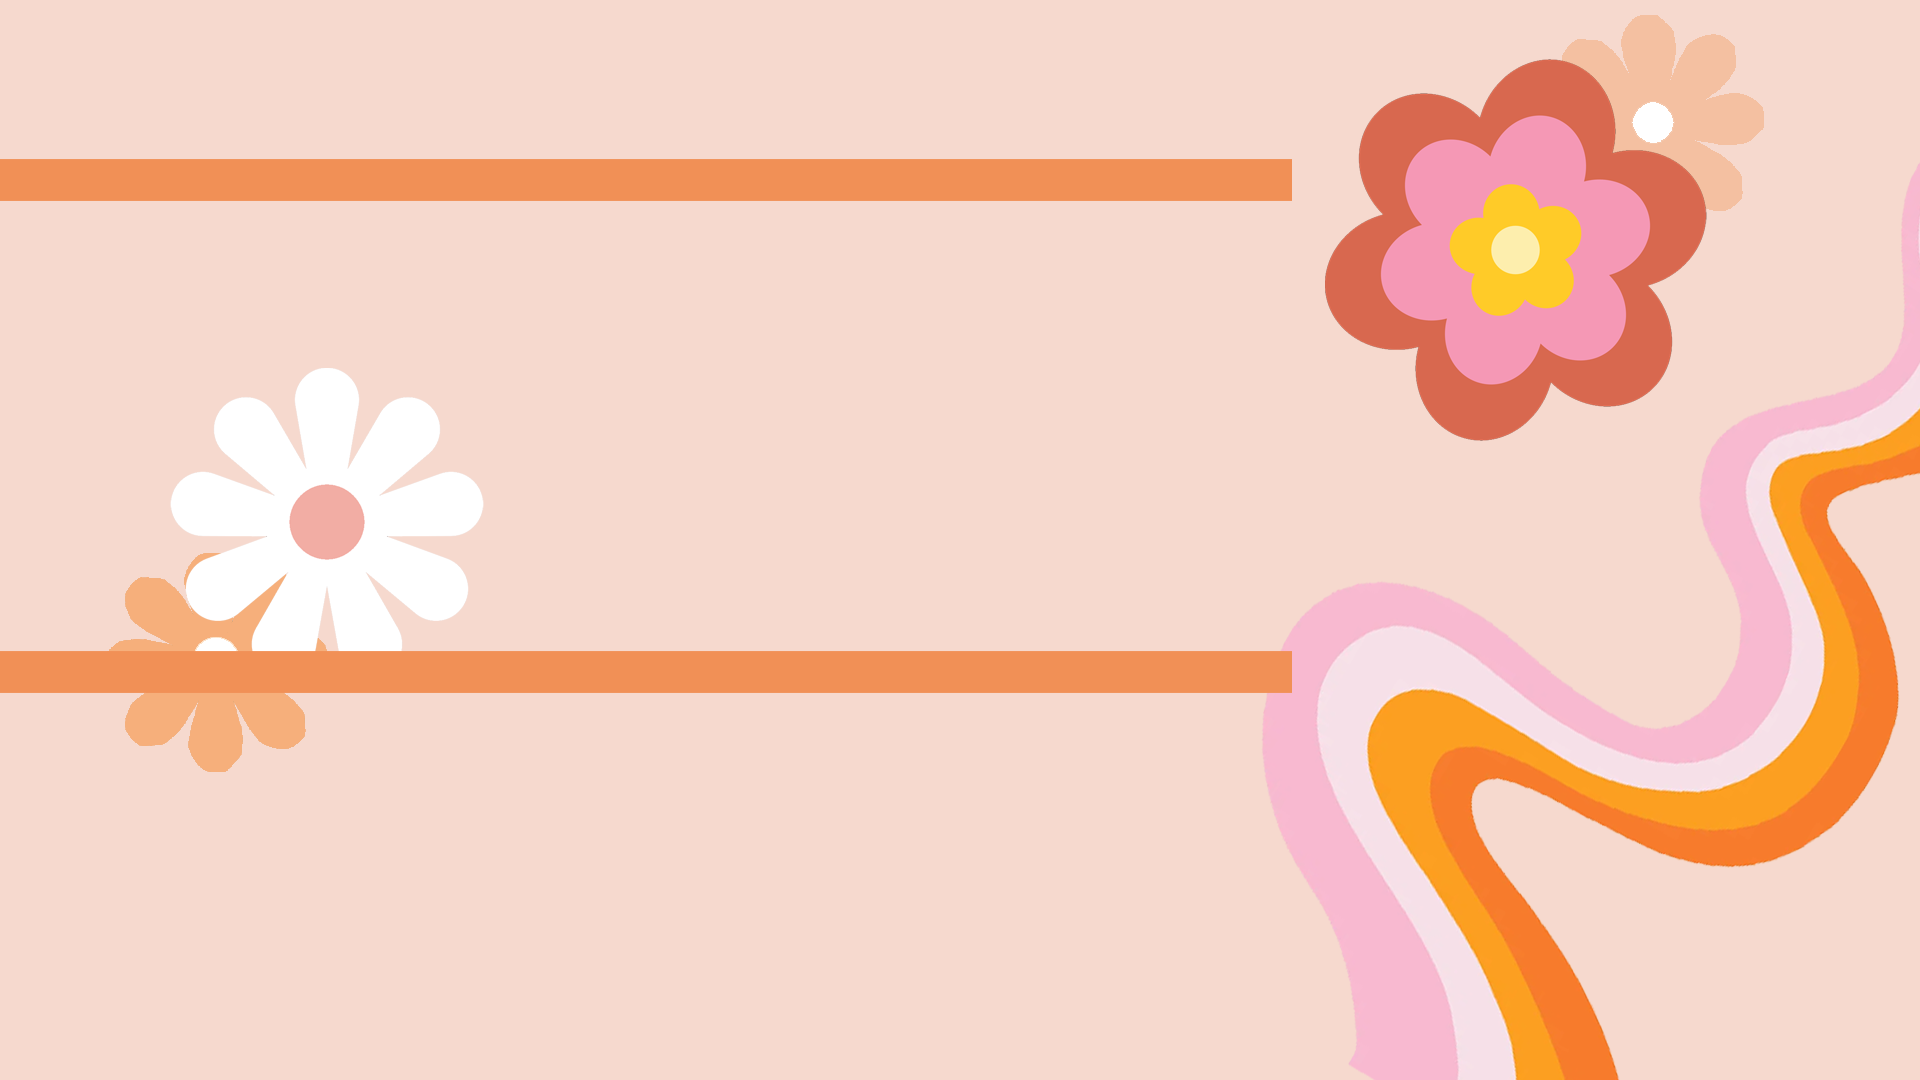
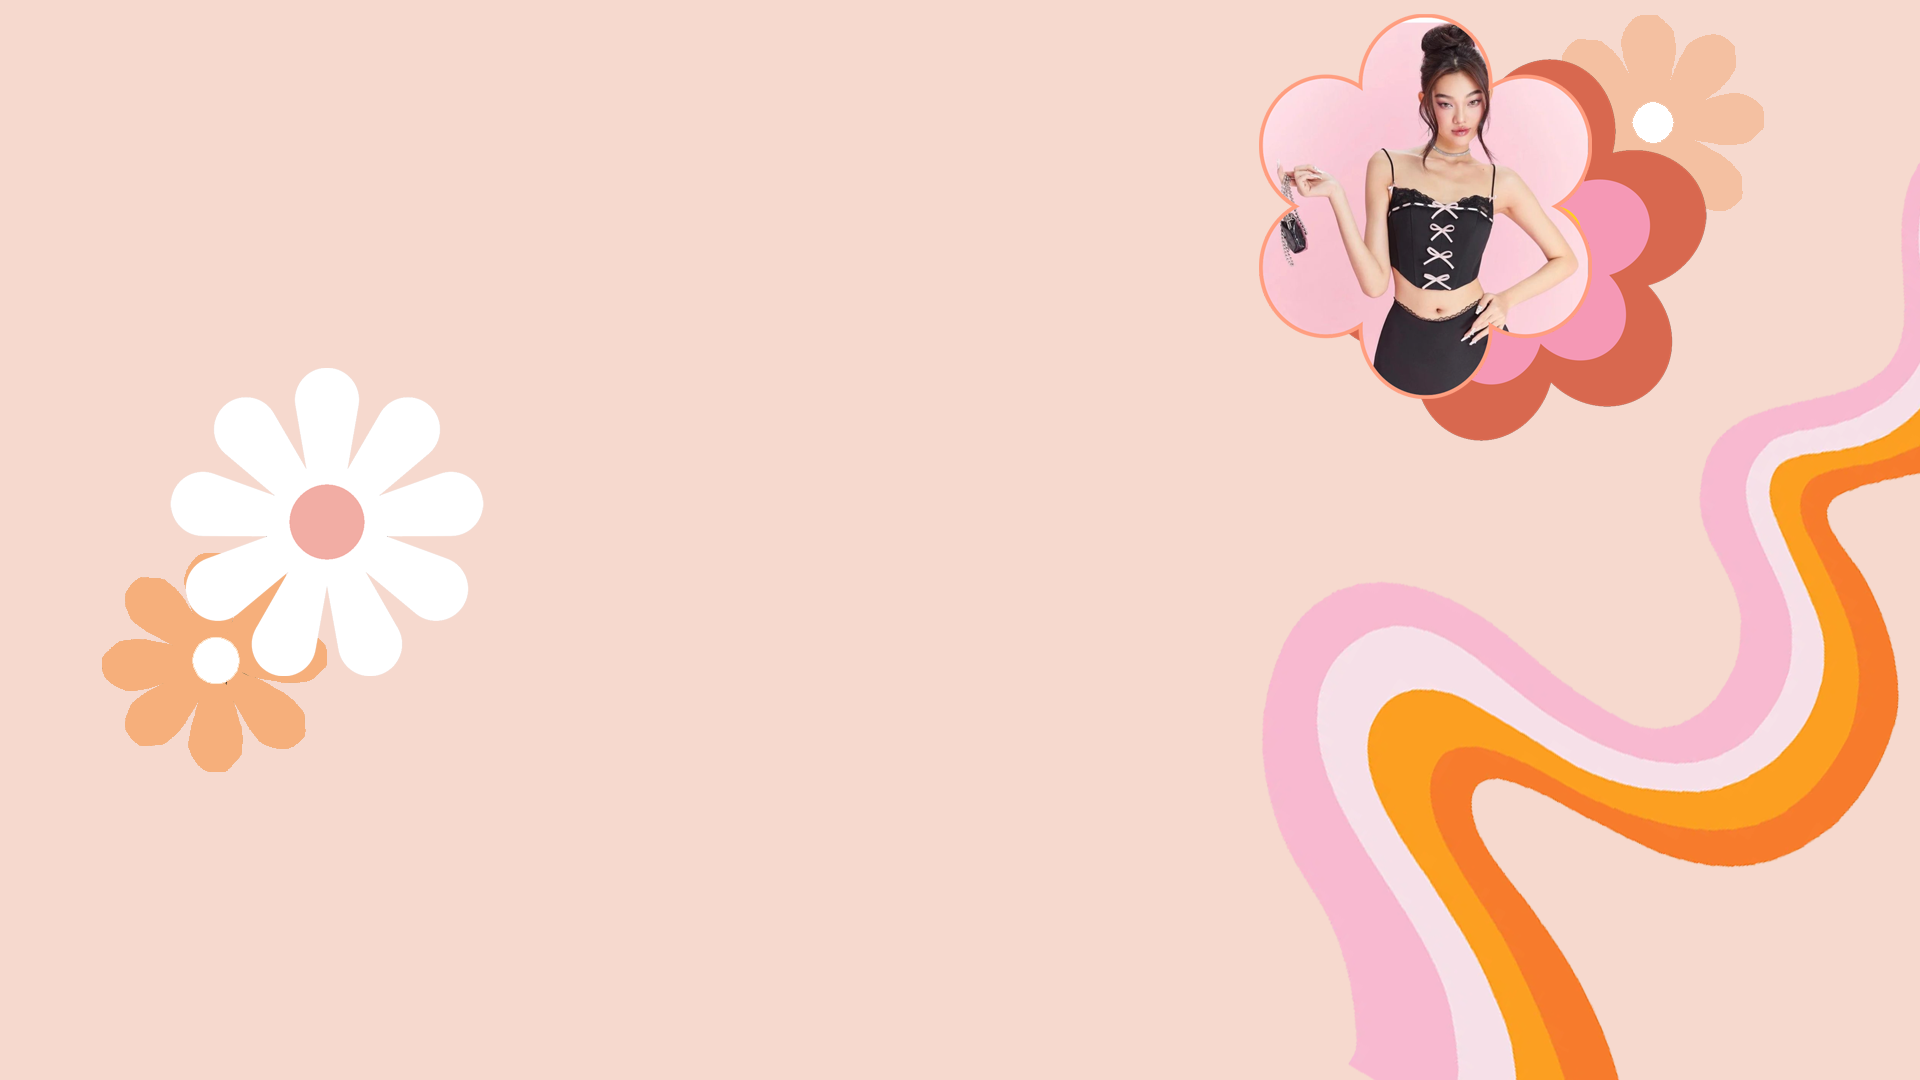
Updated a file
Fixed responsiveness

Changed region(s): [[0.0, 0.0, 0.8438, 0.3667], [0.0, 0.5806, 0.6875, 0.6417]]

diff --git a/src/Components/FrontPoster/Poster.css b/src/Components/FrontPoster/Poster.css
@@ -1,7 +1,8 @@
 .poster {
   margin-top: 1px;
-  height: 850px;
-  background-image: url(/src/Components/Assets/frontpage\ bg.png);
+  background-image: url(/src/Components/Assets/frontpage\ bg1.png);
+  background-size: 100%;
+  background-repeat: no-repeat;
   display: flex;
 }
 .poster-left {
@@ -45,7 +46,7 @@
 }
 .poster-right img {
   margin-top: 120px;
-  margin-right: 250px;
+  padding-right: 200px;
   height: auto;
   width: 550px;
   flex: 1;
@@ -54,10 +55,6 @@
   justify-content: center;
 }
 @media (max-width: 1700px) {
-  .poster {
-    height: auto;
-    width: 1700px;
-  }
   .poster p {
     font-size: 50px;
     font-weight: 900;
@@ -65,13 +62,10 @@
   .poster-right img {
     height: auto;
     width: 500px;
+    padding-right: 0px;
   }
 }
 @media (max-width: 1628px) {
-  .poster {
-    height: auto;
-    width: 1610px;
-  }
   .poster p {
     font-size: 50px;
     font-weight: 900;
@@ -82,10 +76,6 @@
   }
 }
 @media (max-width: 1500px) {
-  .poster {
-    height: auto;
-    width: 1490px;
-  }
   .poster-right img {
     height: auto;
     width: 390px;
@@ -93,10 +83,6 @@
   }
 }
 @media (max-width: 1400px) {
-  .poster {
-    height: auto;
-    width: 1385px;
-  }
   .poster-right img {
     height: auto;
     width: 350px;
@@ -104,10 +90,6 @@
   }
 }
 @media (max-width: 1350px) {
-  .poster {
-    height: auto;
-    width: 1350px;
-  }
   .poster-right img {
     height: auto;
     width: 300px;
@@ -115,10 +97,6 @@
   }
 }
 @media (max-width: 1280px) {
-  .poster {
-    height: auto;
-    width: 1266px;
-  }
   .poster-left {
     padding-left: 0px;
   }
@@ -139,20 +117,14 @@
   }
   .poster-right img {
     width: 250px;
-    margin-right: 250px;
   }
 }
 @media (max-width: 1108px) {
-  .poster {
-    height: auto;
-    width: 1108px;
-  }
   .poster-left {
     padding-left: 0px;
   }
   .poster-left p {
     font-size: 40px;
-    margin-left: 100px;
   }
   .astonishing img {
     width: 500px;
@@ -167,23 +139,17 @@
   }
   .poster-right img {
     width: 250px;
-    margin-right: 550px;
   }
 }
 @media (max-width: 1024px) {
-  .poster {
-    height: auto;
-    width: 1024px;
-  }
   .poster-left {
     padding-left: 0px;
   }
   .poster-left p {
     font-size: 40px;
-    margin-left: 100px;
   }
   .astonishing img {
-    width: 500px;
+    width: 300px;
     margin-left: 0px;
   }
   .poster-latest-btn {
@@ -195,14 +161,9 @@
   }
   .poster-right img {
     width: 250px;
-    margin-right: 650px;
   }
 }
 @media (max-width: 800px) {
-  .poster {
-    height: auto;
-    width: 800px;
-  }
   .poster-left {
     padding-left: 0px;
   }
@@ -225,26 +186,21 @@
   .poster-right img {
     display: none;
     width: 300px;
-    margin-right: 10000px;
   }
 }
 @media (max-width: 500px) {
-  .poster {
-    flex-direction: column;
-  }
-  .poster-left h2 {
-    font-size: 18px;
+  .astonishing img {
+    width: 300px;
+    margin-left: 0px;
   }
   .poster-left p {
-    font-size: 50px;
-  }
-  .poster-hand-icon img {
-    width: 55px;
+    font-size: 20px;
   }
   .poster-latest-btn {
-    width: 200px;
+    margin-top: 0px;
+    width: 160px;
     height: 45px;
-    font-size: 13px;
+    font-size: 11px;
   }
   .poster-right {
     display: none;

diff --git a/src/Components/Advertisement/Advertisement_1.css b/src/Components/Advertisement/Advertisement_1.css
@@ -49,7 +49,7 @@
   height: auto;
   width: 500px;
   margin-bottom: 180px;
-  margin-right: 100px;
+  padding-right: 100px;
 }
 @media (max-width: 1628px) {
   .offers1 {
@@ -71,12 +71,11 @@
 }
 @media (max-width: 1280px) {
   .offers1 {
-    padding: 0px 95px;
+    padding: 0px 89px;
     margin-bottom: 0px;
   }
   .offers-left1 h1 {
     font-size: 40px;
-    margin-left: 0px;
   }
   .offers-left1 p {
     font-size: 18px;
@@ -96,9 +95,9 @@
 }
 @media (max-width: 1024px) {
   .offers1 {
-    padding: 0px 74px;
+    padding: 0px 72px;
     height: 40vh;
-    margin-bottom: 80px;
+    margin-bottom: 0px;
   }
   .offers-left1 h1 {
     font-size: 30px;
@@ -120,8 +119,9 @@
 }
 @media (max-width: 800px) {
   .offers1 {
+    padding: 0px 59px;
     height: 40vh;
-    margin-bottom: 60px;
+    margin-bottom: 00px;
   }
   .offers-left1 h1 {
     font-size: 20px;
@@ -138,12 +138,58 @@
     font-size: 12px;
   }
 }
-@media (max-width: 500px) {
+@media (max-width: 700px) {
   .offers1 {
-    height: 25vh;
-    margin-bottom: 50px;
+    padding: 0px 50px;
+    height: 40vh;
+    margin-bottom: 00px;
+  }
+  .offers-left1 {
+    font-size: 20px;
+    margin-left: 0px;
   }
   .offers-left1 h1 {
+    font-size: 20px;
+    margin-left: 0px;
+  }
+  .offers-left1 h2 {
+    color: #171717;
+    font-size: 30px;
+    font-weight: 600;
+  }
+  .offers-left1 p {
+    font-size: 12px;
+  }
+  .offers-right1 img {
+    width: 180px;
+  }
+  .offers-left1 button {
+    width: 140px;
+    height: 30px;
+    font-size: 12px;
+  }
+  .offers-left1 img {
+    margin-top: 20px;
+    height: auto;
+    width: 200px;
+    padding-right: 0px;
+  }
+}
+@media (max-width: 500px) {
+  .offers1 {
+    padding: 0px 35px;
+    height: 25vh;
+    margin-bottom: 0px;
+  }
+  .offers-left1 {
+    margin-left: 0px;
+    font-size: 16px;
+  }
+  .offers-left1 h1 {
+    margin-left: 0px;
+    font-size: 16px;
+  }
+  .offers-left1 h2 {
     font-size: 16px;
   }
   .offers-left1 p {

diff --git a/src/Components/Advertisement/Advertisement.css b/src/Components/Advertisement/Advertisement.css
@@ -75,7 +75,7 @@
 }
 @media (max-width: 1280px) {
   .offers {
-    padding: 0px 95px;
+    padding: 0px 89px;
     margin-bottom: 0px;
   }
   .offers-left h1 {
@@ -123,8 +123,9 @@
 }
 @media (max-width: 800px) {
   .offers {
+    padding: 0px 59px;
     height: 40vh;
-    margin-bottom: 60px;
+    margin-bottom: 00px;
   }
   .offers-left h1 {
     font-size: 20px;
@@ -141,12 +142,53 @@
     font-size: 12px;
   }
 }
-@media (max-width: 500px) {
+@media (max-width: 700px) {
   .offers {
-    height: 25vh;
-    margin-bottom: 50px;
+    padding: 0px 50px;
+    height: 40vh;
+    margin-bottom: 00px;
+  }
+  .offers-left {
+    font-size: 20px;
+    margin-left: 0px;
   }
   .offers-left h1 {
+    font-size: 20px;
+    margin-left: 0px;
+  }
+  .offers-left h2 {
+    color: #171717;
+    font-size: 30px;
+    font-weight: 600;
+  }
+
+  .offers-left p {
+    font-size: 20px;
+  }
+  .offers-right img {
+    width: 180px;
+  }
+  .offers-left button {
+    width: 140px;
+    height: 30px;
+    font-size: 12px;
+  }
+}
+@media (max-width: 500px) {
+  .offers {
+    padding: 0px 35px;
+    height: 25vh;
+    margin-bottom: 0px;
+  }
+  .offers-left {
+    margin-left: 0px;
+    font-size: 16px;
+  }
+  .offers-left h1 {
+    margin-left: 0px;
+    font-size: 16px;
+  }
+  .offers-left h2 {
     font-size: 16px;
   }
   .offers-left p {

diff --git a/src/Components/Email/Email.css b/src/Components/Email/Email.css
@@ -68,7 +68,7 @@
 }
 @media (max-width: 1280px) {
   .email {
-    padding: 0px 95px;
+    padding: 0px 89px;
     margin-bottom: 0px;
     gap: 20px;
   }
@@ -116,8 +116,9 @@
 }
 @media (max-width: 800px) {
   .email {
+    padding: 0px 59px;
+    height: 40vh;
     margin-bottom: 0px;
-    height: 35vh;
   }
   .email h1 {
     font-size: 18px;

diff --git a/src/Components/FrontPoster/Poster.js b/src/Components/FrontPoster/Poster.js
@@ -20,9 +20,6 @@ const Poster = () => {
           <img src={arrow_icon} alt="" />
         </div>
       </div>
-      <div className="poster-right">
-        <img src={poster_image} alt="" />
-      </div>
     </div>
   );
 };
